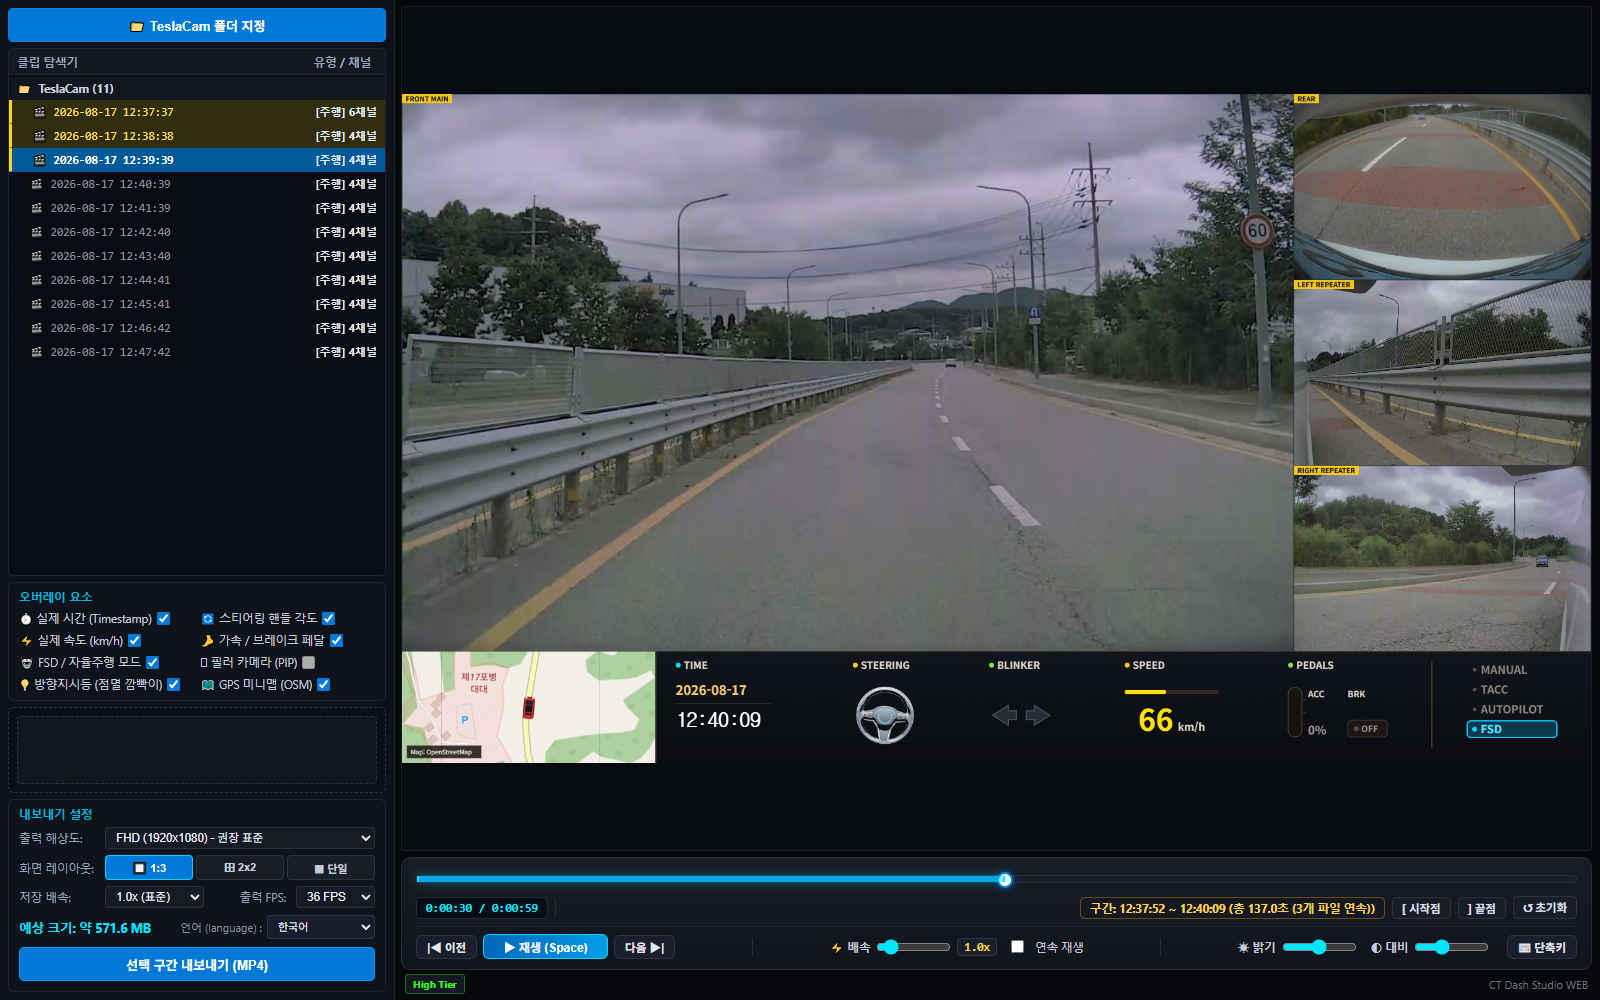
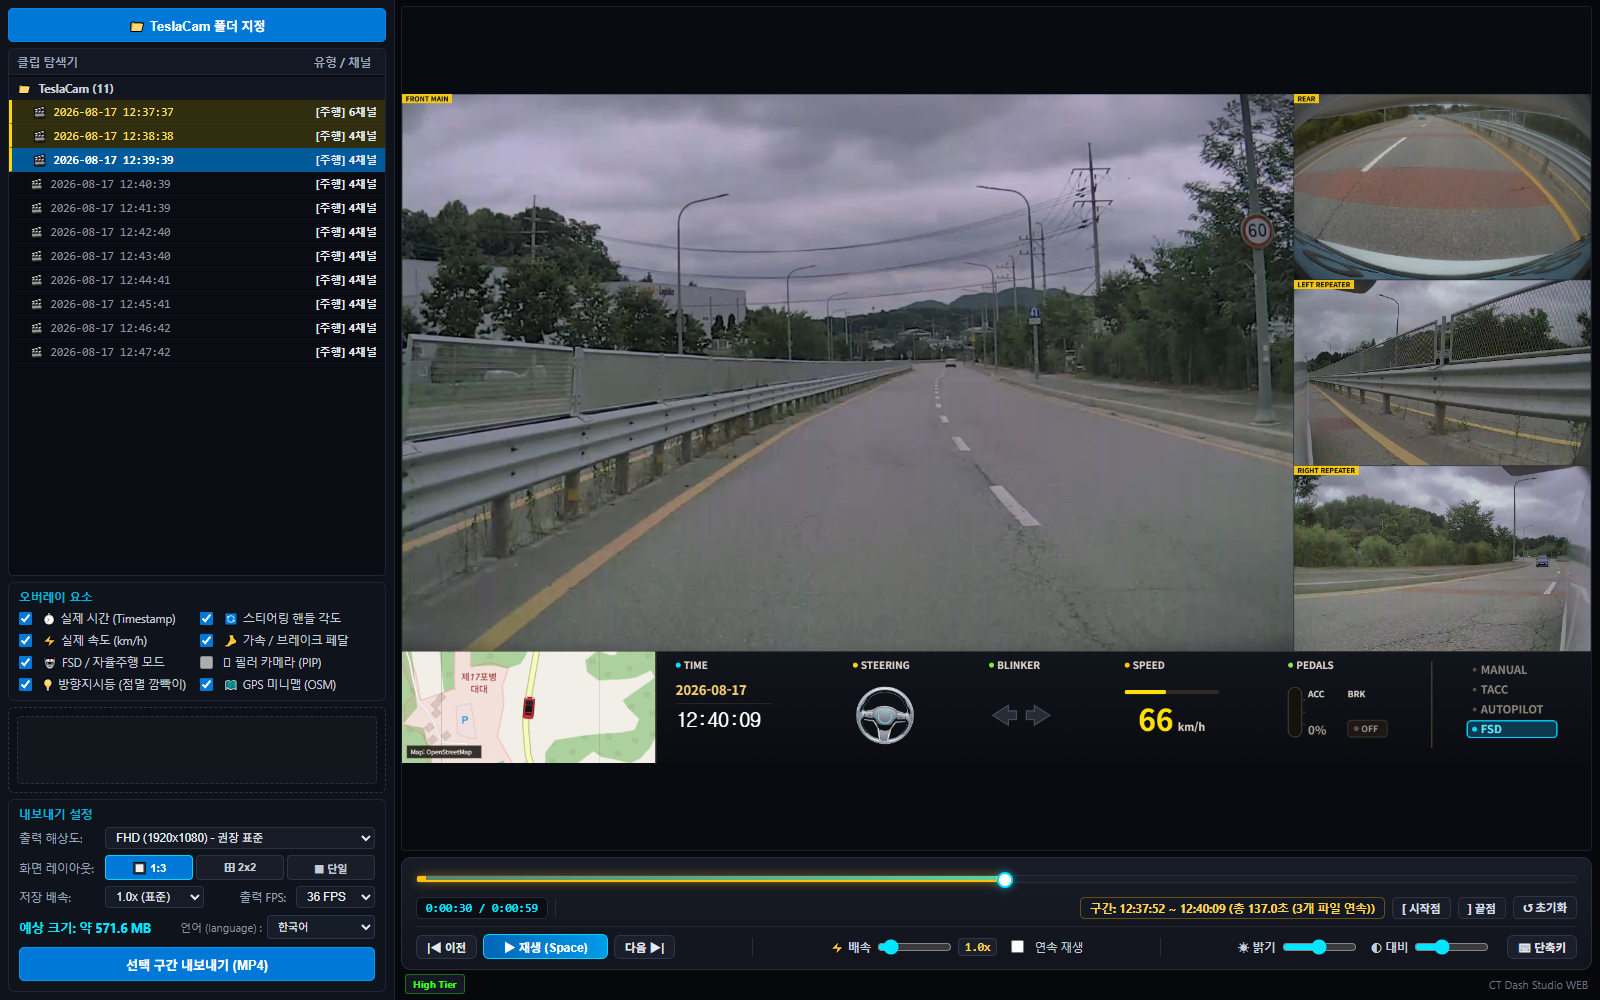
fix: style timeline range highlight with yellow gold brackets matching original Qt6 app

Changed region(s): [[0.0, 0.589, 0.2188, 0.713], [0.25, 0.868, 0.625, 0.899], [0.6562, 0.93, 0.6875, 0.961]]

diff --git a/src/style.css b/src/style.css
@@ -596,9 +596,10 @@ body {
   top: 0;
   height: 100%;
   width: 0%;
-  background: var(--accent-blue);
+  background: linear-gradient(to right, #0062ad, #00d8ff);
   border-radius: 4px;
   pointer-events: none;
+  z-index: 2;
 }
 
 .timeline-thumb {
@@ -609,10 +610,11 @@ body {
   height: 16px;
   border-radius: 50%;
   background: #ffffff;
-  border: 2px solid var(--accent-blue);
-  box-shadow: 0 0 8px rgba(0, 120, 215, 0.7);
+  border: 2px solid #00d8ff;
+  box-shadow: 0 0 8px rgba(0, 216, 255, 0.7);
   transform: translateX(-50%);
   pointer-events: none;
+  z-index: 4;
 }
 
 .timeline-events-layer {
@@ -629,21 +631,44 @@ body {
   top: 0;
   bottom: 0;
   height: 100%;
-  background: rgba(0, 230, 255, 0.45);
-  border-left: 2px solid #00e6ff;
-  border-right: 2px solid #00e6ff;
-  box-shadow: 0 0 10px rgba(0, 230, 255, 0.4);
+  background: rgba(255, 193, 7, 0.35);
+  border-left: 3px solid #ffc107;
+  border-right: 3px solid #ffc107;
+  border-bottom: 2px solid #ffc107;
+  box-shadow: 0 0 10px rgba(255, 193, 7, 0.5);
   border-radius: 2px;
   pointer-events: none;
-  z-index: 2;
+  z-index: 3;
   box-sizing: border-box;
+}
+
+#timeline-range::before,
+#timeline-range::after {
+  content: '';
+  position: absolute;
+  top: 0;
+  bottom: 0;
+  width: 6px;
+  pointer-events: none;
+}
+
+#timeline-range::before {
+  left: 0;
+  border-top: 2px solid #ffc107;
+  border-bottom: 2px solid #ffc107;
+}
+
+#timeline-range::after {
+  right: 0;
+  border-top: 2px solid #ffc107;
+  border-bottom: 2px solid #ffc107;
 }
 
 .event-block-highlight {
   position: absolute;
   top: 0;
   height: 100%;
-  background: rgba(255, 170, 0, 0.75);
+  background: rgba(255, 52, 84, 0.75);
   border-radius: 2px;
 }
 
@@ -651,9 +676,10 @@ body {
   position: absolute;
   top: 0;
   height: 100%;
-  background: rgba(0, 230, 255, 0.45);
-  border-left: 2px solid #00e6ff;
-  border-right: 2px solid #00e6ff;
+  background: rgba(255, 193, 7, 0.35);
+  border-left: 3px solid #ffc107;
+  border-right: 3px solid #ffc107;
+  border-bottom: 2px solid #ffc107;
   border-radius: 2px;
 }
 
